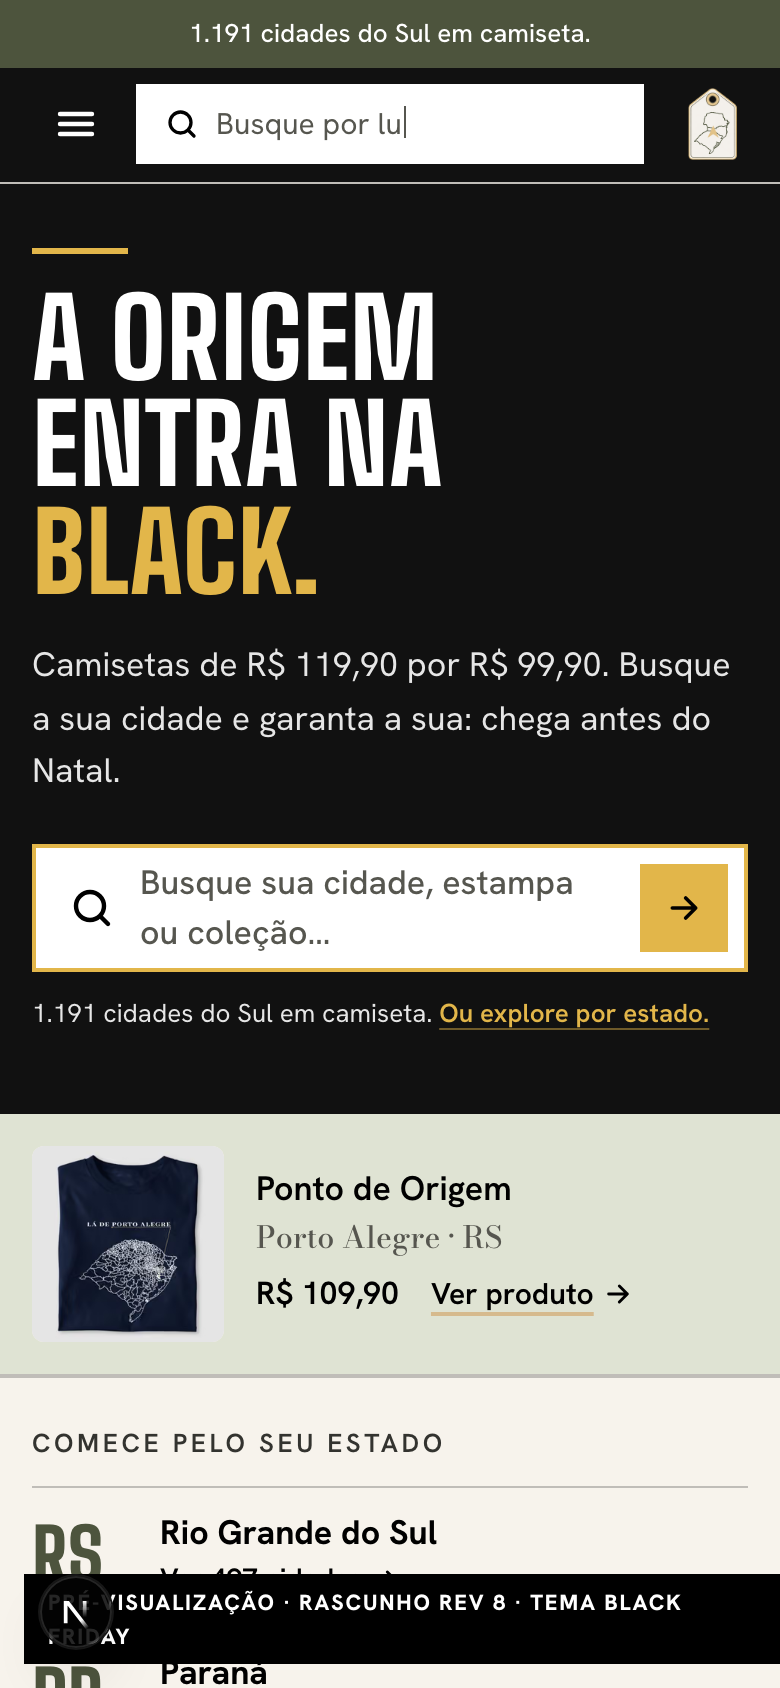
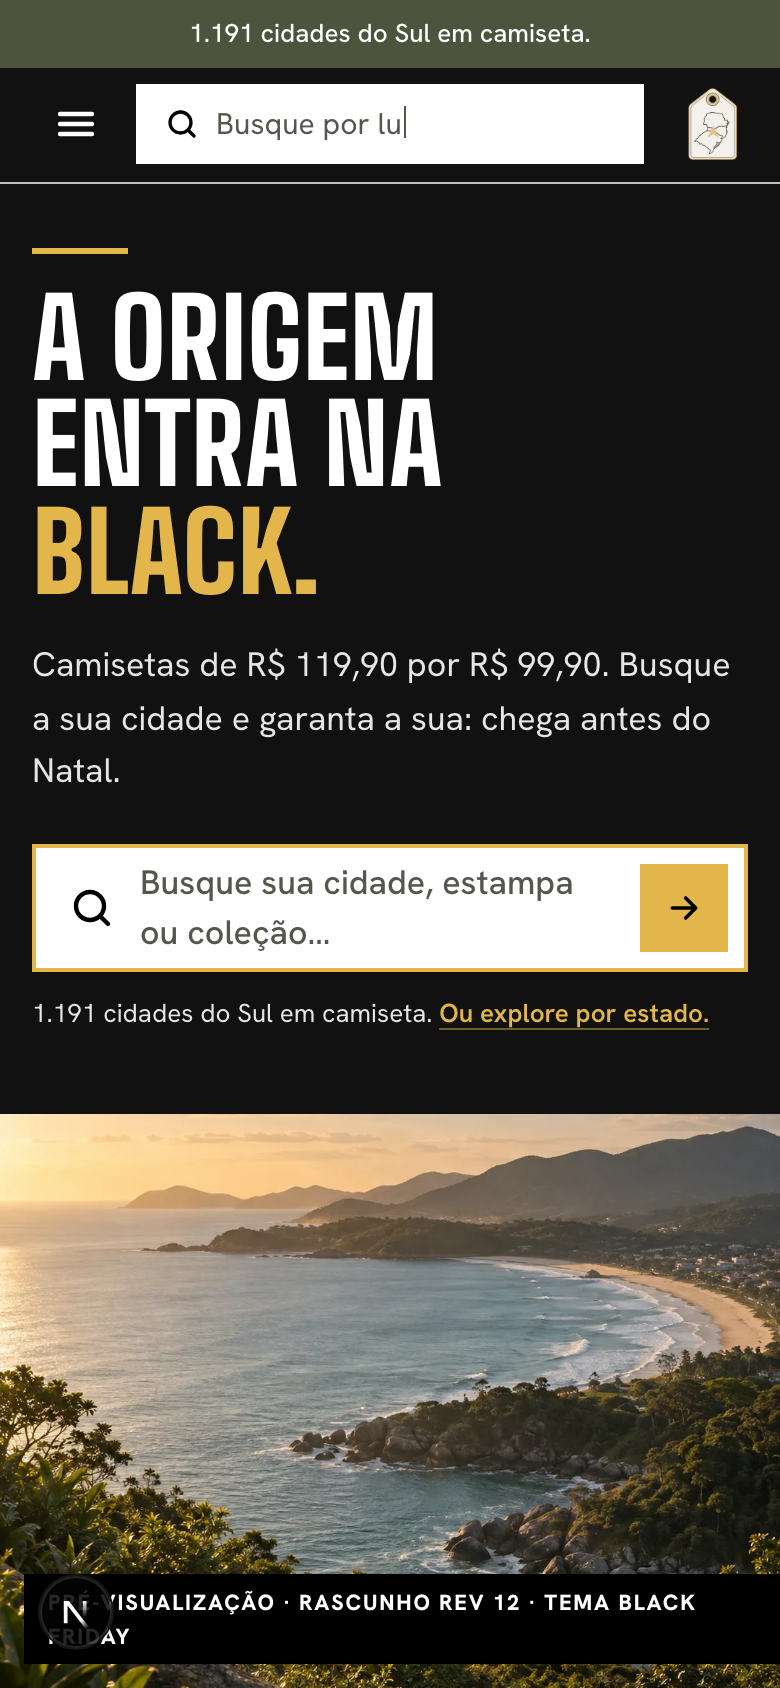
feat(home): abertura do Natal emocional, "Natal é estar junto."

Changed region(s): [[0.0, 0.6469, 1.0, 1.0]]

diff --git a/src/components/admin/HomeThemeCard.tsx b/src/components/admin/HomeThemeCard.tsx
@@ -8,7 +8,7 @@ const ABOUT: Record<HomeThemeName, string> = {
   original: "O visual que a loja já tem: header na cor da região, o cinza das fotos como fundo, as seções nas composições de sempre.",
   editorial: "A direção editorial: verde profundo, fundo creme e terracota; abertura com produto ou banner em destaque, faixa de estados, cards de coleção e campanha dividida. Faixa do topo e rodapé no verde.",
   black: "Para a Black Friday: nasce como cópia do tema em uso, com a abertura escura (fundo preto, destaque amarelo, “de R$ 119,90 por R$ 99,90”), o topo preto e as etiquetas “% OFF” e “Black Friday” nos produtos em promoção. Depois da data, volte ao tema de antes em “Usar na loja”.",
-  natal: "Para o Natal: nasce como cópia do tema em uso, com a abertura “Presente que tem endereço.” em vermelho e, logo abaixo, a chamada para o Natal em família e a vitrine da coleção Natal. Depois da data, volte ao tema de antes em “Usar na loja”.",
+  natal: "Para o Natal: nasce como cópia do tema em uso, com a abertura “Natal é estar junto.” em vermelho e, logo abaixo, a chamada para o Natal em família e a vitrine da coleção Natal. Depois da data, volte ao tema de antes em “Usar na loja”.",
 };
 
 /**

diff --git a/tests/unit/home-themes.test.ts b/tests/unit/home-themes.test.ts
@@ -199,7 +199,7 @@ describe("the seasonal themes (Black Friday and Natal)", () => {
     expect(doc.home!.sections).toEqual(before.home!.sections);
     const natal = doc.homeThemes!.natal!;
     const [hero, call, showcase, ...rest] = natal.sections;
-    expect(hero).toMatchObject({ id: before.home!.sections[0].id, variant: "feature", title: "Presente\nque tem\nendereço.", heroColors: { highlight: "#a8322d" } });
+    expect(hero).toMatchObject({ id: before.home!.sections[0].id, variant: "feature", title: "Natal é\nestar\njunto.", heroColors: { highlight: "#a8322d" } });
     expect(call).toMatchObject({ template: "campaign", variant: "split", cta: { dest: { kind: "customizer", customizerId: "natal1" } } });
     expect(showcase).toMatchObject({ template: "product-carousel", source: { kind: "ink-category", collectionId: 154424 } });
     expect(rest).toEqual(before.home!.sections.slice(1));

diff --git a/src/lib/site-config/home-themes.ts b/src/lib/site-config/home-themes.ts
@@ -164,8 +164,8 @@ const SEASONAL_HERO: Record<SeasonalThemeName, { title: string; subtitle: string
     colors: { background: "#111111", title: "#ffffff", highlight: "#e2b64a", rule: "#e2b64a", text: "#e6e6e6", link: "#e2b64a", field: "#e2b64a" },
   },
   natal: {
-    title: "Presente\nque tem\nendereço.",
-    subtitle: "A camiseta da cidade de quem você ama, ou o sobrenome da família numa estampa de Natal.",
+    title: "Natal é\nestar\njunto.",
+    subtitle: "A mesa cheia, a casa barulhenta, o abraço que a gente esperou o ano todo. Presentes para quem estará lá.",
     colors: { highlight: "#a8322d", rule: "#a8322d" },
   },
 };

diff --git a/docs/temas-sazonais.md b/docs/temas-sazonais.md
@@ -8,8 +8,8 @@ na loja não muda até você escolher outro e publicar.
 
 | | Black Friday | Natal |
 |---|---|---|
-| Título | A origem / entra na / **Black.** | Presente / que tem / **endereço.** |
-| Texto | Camisetas de R$ 119,90 por R$ 99,90. Busque a sua cidade e garanta a sua: chega antes do Natal. | A camiseta da cidade de quem você ama, ou o sobrenome da família numa estampa de Natal. |
+| Título | A origem / entra na / **Black.** | Natal é / estar / **junto.** |
+| Texto | Camisetas de R$ 119,90 por R$ 99,90. Busque a sua cidade e garanta a sua: chega antes do Natal. | A mesa cheia, a casa barulhenta, o abraço que a gente esperou o ano todo. Presentes para quem estará lá. |
 | Cores da abertura | metade do texto preta, título branco, destaque e traço amarelos (#e2b64a), busca com moldura amarela | destaque e traço em vermelho (#a8322d), o resto como no tema em uso |
 | Topo e menu do celular | pretos | como no tema em uso |
 | Etiquetas nas fotos | "% OFF" e "Black Friday" nas vitrines de produtos, as duas **só nos produtos em promoção** | como no tema em uso |
@@ -43,6 +43,8 @@ no Editorial), o mais simples é criar o tema sazonal de novo a partir dele. Ele
 
 ### Abertura: um banner por produto em destaque
 
+A abertura diz "Natal é estar junto": as fotos mostram gente reunida, não uma pessoa sozinha.
+
 - **Tamanho:** 1920×1440 px (4:3). O mesmo arquivo serve para celular e desktop.
 - **Corte:** no celular a foto vira uma faixa de cerca de 6:5, no desktop uma metade de cerca de 9:8. Deixe a pessoa e a
   estampa **no centro**, com folga nas bordas. A faixa do produto (nome, cidade, preço) fica **embaixo** da foto, sem cobrir nada.
@@ -55,7 +57,7 @@ Cenas sugeridas, uma por produto em destaque:
 
 1. Alguém abre uma caixa de presente e levanta a camiseta da cidade, com a mesa de ceia desfocada atrás.
 2. Duas gerações (pai e filha, avó e neto) na varanda com pisca-pisca, um deles vestindo a camiseta.
-3. Uma pessoa vestindo a camiseta, segurando um presente embrulhado, numa rua de cidade do Sul enfeitada.
+3. Amigos ou um casal chegando à ceia com presentes nas mãos, um deles vestindo a camiseta, recebidos com abraço na porta.
 
 ### Chamada "Natal em família" (opcional)
 
